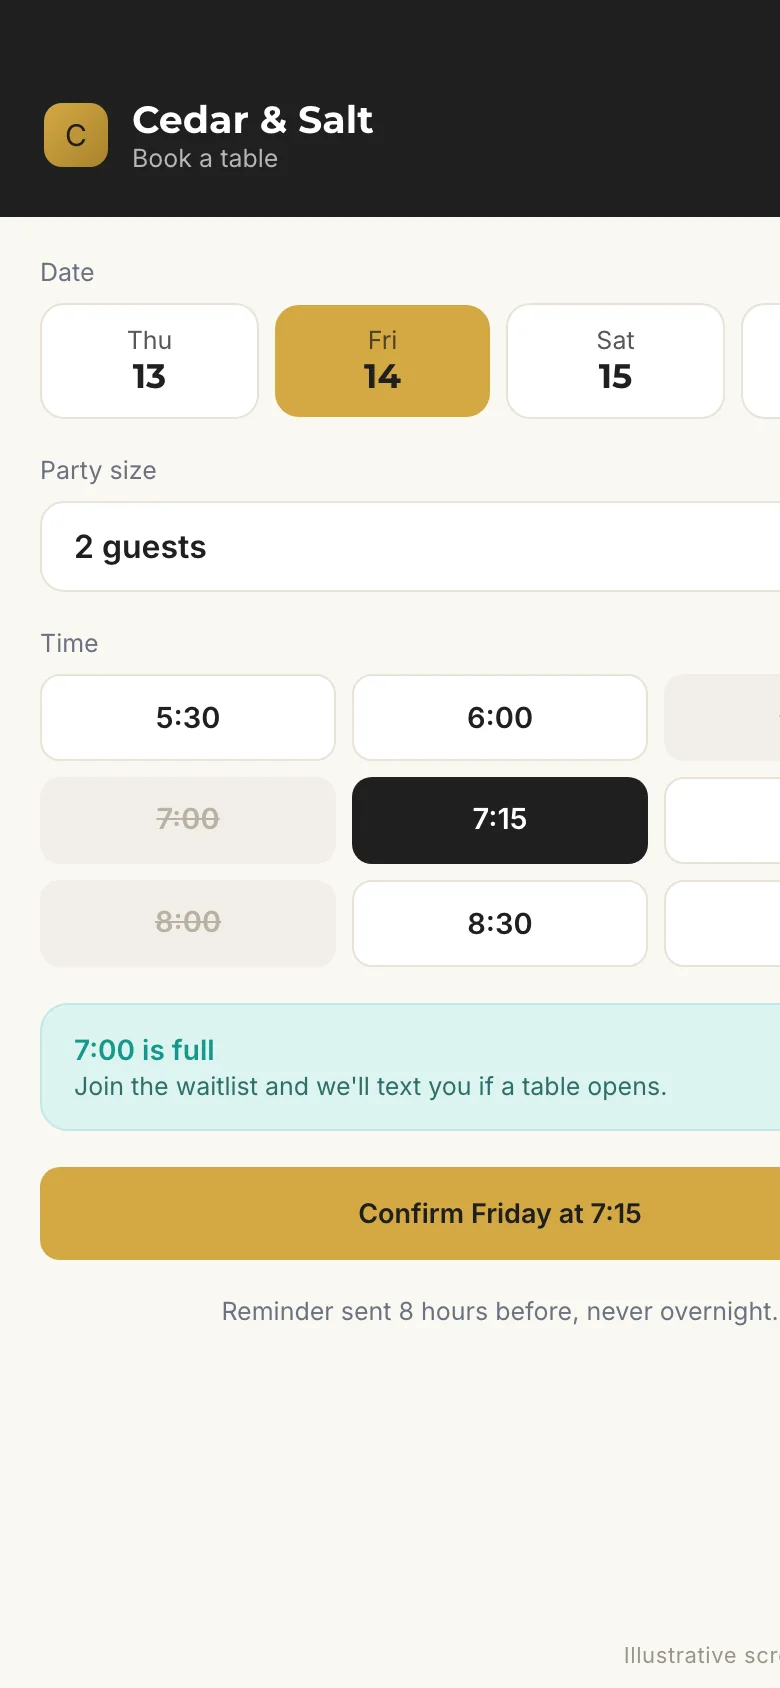
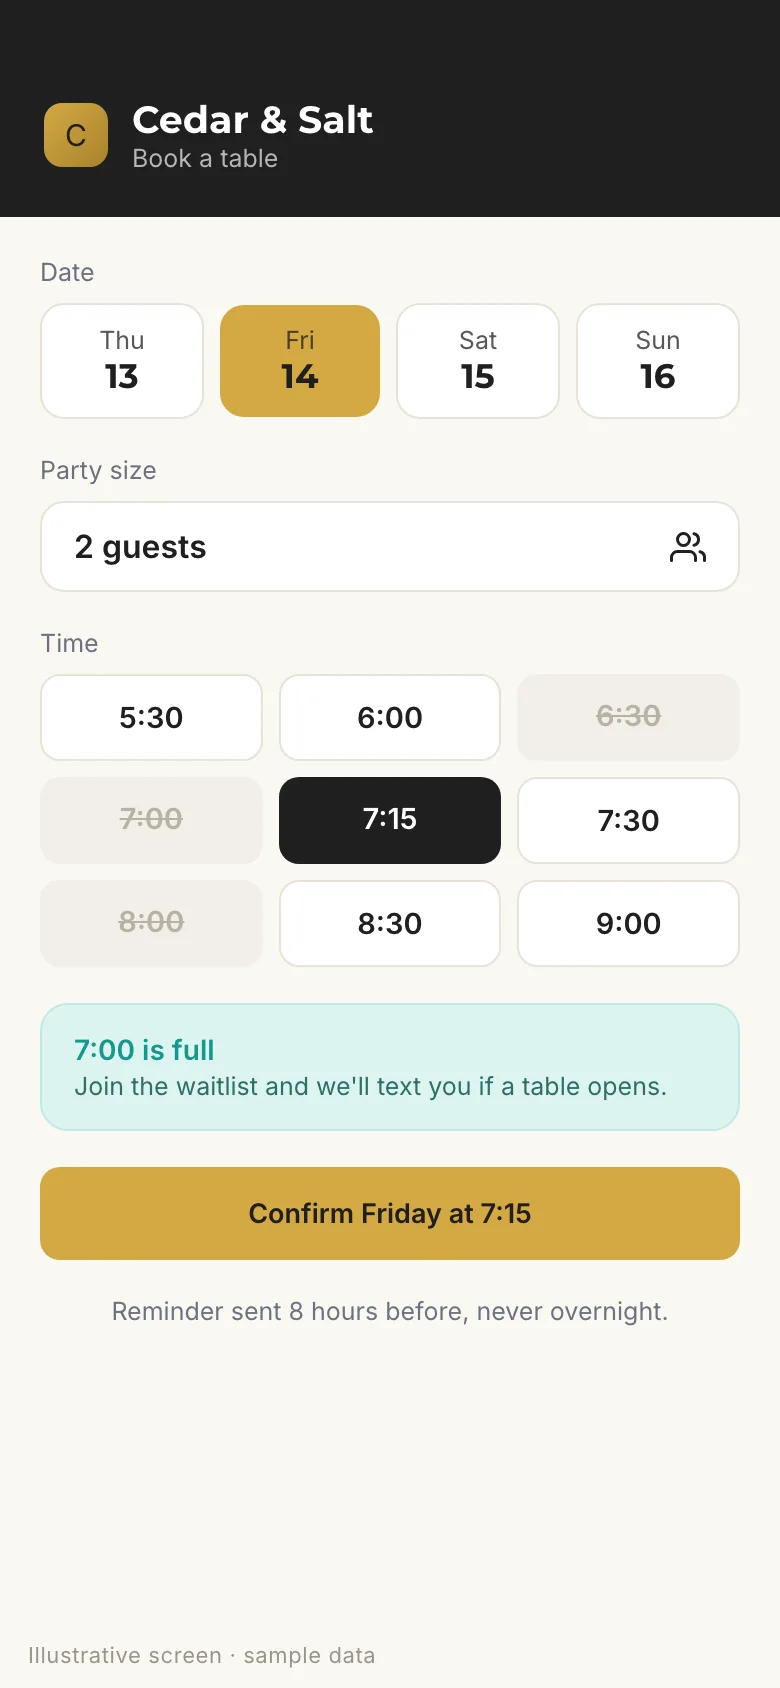
Keep backdated posts accurate, fix the phone screen crop [monarch-build]
- Five posts dated before the club's academy and scheduling went live now
  describe how we build those tools instead of claiming finished club work
- Phone booking screen renders at its real width with no cropped columns

diff --git a/blog/how-to-open-a-restaurant-checklist/index.html b/blog/how-to-open-a-restaurant-checklist/index.html
@@ -87,7 +87,7 @@
 <p>Figuring out how to open a restaurant is mostly figuring out what has to happen in what order. Miss one early step, like the liquor license application or the health department's plan review, and your opening date slides by weeks while rent keeps running. This checklist walks through each phase from concept to opening week and flags the items with long lead times, so you can start those first.</p>
 <p>Requirements vary by state, county, and city. Use this as a framework, and confirm the details with your local offices, your attorney, and your accountant.</p>
 <h2>Get the long lead items moving first</h2>
-<p>Some items take months in many markets, and none of them can be rushed at the end. Start these as soon as your concept and location are firm:</p>
+<p>Some items take months in many markets, and none of them can be rushed at the end. Put these on the calendar as soon as your concept and location are firm:</p>
 <table>
 <thead>
 <tr>
@@ -255,16 +255,16 @@
 <ul>
 <li>Signing a lease before a contractor confirms the hood, gas, grease trap, and electrical can support your menu.</li>
 <li>Spending the contingency during build-out and opening with no working capital left.</li>
-<li>Ordering custom furniture after the floor plan changes for the third time.</li>
+<li>Finalizing the floor plan so late that custom furniture can't arrive in time.</li>
 <li>Hiring so late that the crew meets the menu during soft opening.</li>
 <li>Opening with a menu bigger than a new kitchen can execute.</li>
-<li>Saving marketing for the week before the doors open, when the profile, website, and email list needed months to build.</li>
+<li>Saving marketing for the week before the doors open, when the profile, website, and email list all take time to build.</li>
 <li>Skipping mock services because the schedule is tight.</li>
 </ul>
 <h2>Keep one owner and one calendar</h2>
-<p>Openings slip when tasks live in five different inboxes. Put every item above on one shared calendar with an owner and a due date, and review it weekly with your contractor, chef, and GM. When a date moves, move everything that depends on it the same day. Keeping that calendar current, and chasing the vendors behind it, is a big part of what our <a href="/restaurant-operations-consulting/">restaurant operations consulting</a> covers for owners who are opening.</p>
+<p>Openings slip when tasks live in five different inboxes. Put every item above on one shared calendar with an owner and a due date, and review it weekly with your contractor, chef, and GM. When a date moves, move everything that depends on it the same day. Keeping that calendar current, and chasing the vendors behind it, is a big part of what our <a href="/restaurant-operations-consulting/">restaurant operations consulting</a> covers for owners who are opening. If you already run a restaurant and you're opening another, our <a href="/ai-assessment/">free AI assessment</a> gives you a quick read on your current operation first, and Christy follows up personally.</p>
 <h2>How Monarch helps</h2>
-<p>Our <a href="/restaurant-operations-consulting/">operations team</a> can run this checklist with you from the written plan to opening week, coordinating vendors, software, training, and marketing along the way. If you already run a restaurant and you're opening another, our <a href="/ai-assessment/">free AI assessment</a> gives you a quick read on your current operation first, and Christy follows up personally.</p>
+<p>Our <a href="/restaurant-operations-consulting/">operations team</a> can run this checklist with you from the written plan to opening week, coordinating vendors, software, training, and marketing along the way. We do the work. You guide the process.</p>
 <div class="article-cta"><h3>Want help with this?</h3><p>Monarch handles operations consulting for restaurants as part of one white-glove team. We do the work. You guide the process. <a href="/restaurant-operations-consulting/" style="color:var(--gold-light)">See how operations consulting works with us</a>.</p><a class="btn btn-gold" href="/ai-assessment/">Get Your Free AI Assessment</a></div>
     </article>
     <aside class="blog-sidebar">

diff --git a/blog/restaurant-booth-dimensions/index.html b/blog/restaurant-booth-dimensions/index.html
@@ -143,7 +143,7 @@
 <ul>
 <li><strong>Single booths</strong> back up to a wall or a window line.</li>
 <li><strong>Double booths</strong> sit back to back and work in the middle of a room or as a divider. The common footprint is about 46 inches long by 44 inches deep.</li>
-<li><strong>Half-circle and three-quarter-circle booths</strong> suit corners and larger parties. Published sizes run about 46 by 88 inches for a half circle and about 88 by 88 inches for a three-quarter circle, with a corner-cut table.</li>
+<li><strong>Half-circle and three-quarter-circle booths</strong> suit corners and larger parties. Published sizes vary, and one common listing puts a half circle at about 46 by 88 inches and a three-quarter circle at about 88 by 88 inches, each with a corner-cut table.</li>
 <li><strong>Wall benches, or banquettes,</strong> run any length with loose chairs on the open side, so you can split a long bench into two-tops or four-tops as the night needs.</li>
 <li><strong>High-back booths</strong> add privacy and quiet, and they block sight lines, so check what a server can see from the station.</li>
 </ul>
@@ -220,7 +220,7 @@
 <p>That keeps roughly 10 to 12 inches between the seat and the tabletop at every height. Mixing heights in one room works, as long as each seat matches its table.</p>
 <h2>Aisles and spacing</h2>
 <ul>
-<li>Allow about 18 inches from the table edge to the back of a pulled-in chair.</li>
+<li>Allow about 18 inches from the table edge to the back of the chair for a seated guest.</li>
 <li>Main traffic aisles are commonly planned at 48 to 60 inches, and secondary aisles at 36 to 44 inches.</li>
 <li>Keep accessible routes at least 36 inches wide.</li>
 <li>Give extra room at the kitchen door, server stations, host stand, and restrooms, where trays and guests cross paths.</li>
@@ -262,7 +262,7 @@
 </tr>
 <tr>
 <td>Cleaning</td>
-<td>Needs a cleanable, commercial-grade upholstery</td>
+<td>Needs cleanable, commercial-grade upholstery</td>
 <td>Quick to wipe down</td>
 </tr>
 <tr>
@@ -283,9 +283,9 @@
 <li>Set delivery and install dates with your contractor so booths arrive after flooring and paint.</li>
 <li>Budget furniture as part of your full FF&amp;E plan. Our explainer on <a href="/blog/what-is-ffe-restaurant/">what FF&amp;E means</a> covers the categories and how to budget them.</li>
 </ul>
-<p>Keeping the designer, the builder, the manufacturer, and the installer working from the same measurements is the core of our <a href="/restaurant-furniture/">restaurant furniture</a> work.</p>
+<p>Keeping the designer, the builder, the manufacturer, and the installer working from the same measurements is the core of our <a href="/restaurant-furniture/">restaurant furniture</a> work. If you'd like a broader read on your operation first, our <a href="/ai-assessment/">free AI assessment</a> is a quick place to begin, and Christy follows up personally.</p>
 <h2>How Monarch helps</h2>
-<p>We coordinate <a href="/restaurant-furniture/">restaurant furniture and FF&amp;E</a> from the floor plan and table configuration through samples, ordering, freight, and install timing, working alongside your designer and builders. Our <a href="/ai-assessment/">free AI assessment</a> is a quick way to see where the rest of your operation stands, and Christy follows up personally.</p>
+<p>We coordinate <a href="/restaurant-furniture/">restaurant furniture and FF&amp;E</a> from the floor plan and table configuration through samples, ordering, freight, and install timing, working alongside your designer and builders. We do the work. You guide the process.</p>
 <div class="article-cta"><h3>Want help with this?</h3><p>Monarch handles furniture and ff&amp;e for restaurants as part of one white-glove team. We do the work. You guide the process. <a href="/restaurant-furniture/" style="color:var(--gold-light)">See how furniture and ff&amp;e works with us</a>.</p><a class="btn btn-gold" href="/ai-assessment/">Get Your Free AI Assessment</a></div>
     </article>
     <aside class="blog-sidebar">

diff --git a/blog/restaurant-sops/index.html b/blog/restaurant-sops/index.html
@@ -230,7 +230,7 @@
 <p>Line cooks and servers spot broken steps first. Give them a simple way to flag one, and have the SOP owner answer within a week. When a cook at your second location finds a faster, safer way to break down the fryer, make it the standard for everyone.</p>
 <h2>Where Software Helps</h2>
 <p>A binder works for one kitchen. Across several, a digital SOP library means one update reaches every location at once, every hire sees the current version on a phone or tablet, and you can see who's been trained on what.</p>
-<p>Some standards work best built into the tools your team already uses every shift. For a private dining club in Vail, Colorado, we built house rules for turn times by season and party size into the club's admin tools, and its training academy records which version of the handbook each person signed. That's the heart of good <a href="/multi-location-restaurants/">multi-unit restaurant management</a>: the standard lives in one place, and every location works from it.</p>
+<p>Some standards work best built into the tools your team already uses every shift. When we build software for a restaurant, house rules like turn times by season and party size live in the admin tools, and the training academy records which version of the handbook each person signed. That's the heart of good <a href="/multi-location-restaurants/">multi-unit restaurant management</a>: the standard lives in one place, and every location works from it.</p>
 <h2>How Monarch Helps</h2>
 <p>We write SOPs from the way your best location already runs, build them into training your team can open on any phone, and roll one standard out to every address as part of a <a href="/multi-location-restaurants/">multi-location rollout</a>. You review and approve every page before your team sees it. For a quick read on where your operation stands today, take our <a href="/ai-assessment/">free AI assessment</a>.</p>
 <div class="article-cta"><h3>Want help with this?</h3><p>Monarch handles multi-location for restaurants as part of one white-glove team. We do the work. You guide the process. <a href="/multi-location-restaurants/" style="color:var(--gold-light)">See how multi-location works with us</a>.</p><a class="btn btn-gold" href="/ai-assessment/">Get Your Free AI Assessment</a></div>

diff --git a/blog/restaurant-schedule-template/index.html b/blog/restaurant-schedule-template/index.html
@@ -227,7 +227,7 @@
 <li><strong>Skipping the weekly review.</strong> Without a look at scheduled hours next to actual hours, next week's template is a guess.</li>
 </ul>
 <h2>Where Software Saves the Hours</h2>
-<p>A spreadsheet works, and it eats a manager's afternoon every week. <a href="/restaurant-scheduling/">Restaurant scheduling software</a> can draft the week for you. For a private dining club in Vail, Colorado, we built scheduling that drafts each week from the book, staffing minimums, and history. Drafts respect availability, time off, and 40-hour caps, flag part-timers over 29 hours, and never split a shift. Publishing texts each person their week, and later changes text only the people affected. Managers approve swap and time-off requests, and a weekly hours report shows where the time went.</p>
+<p>A spreadsheet works, and it eats a manager's afternoon every week. <a href="/restaurant-scheduling/">Restaurant scheduling software</a> can draft the week for you. The scheduling we build drafts each week from the book, staffing minimums, and history. Drafts respect availability, time off, and 40-hour caps, flag part-timers over 29 hours, and never split a shift. Publishing texts each person their week, and later changes text only the people affected. Managers approve swap and time-off requests, and a weekly hours report shows where the time went.</p>
 <h2>How Monarch Helps</h2>
 <p>We set up <a href="/restaurant-scheduling/">restaurant scheduling and labor planning</a> around your forecast, your staffing minimums, and your labor targets, and a manager reviews every draft before it publishes. If you'd like a read on where your labor stands first, take our <a href="/ai-assessment/">free AI assessment</a>.</p>
 <div class="article-cta"><h3>Want help with this?</h3><p>Monarch handles scheduling and labor for restaurants as part of one white-glove team. We do the work. You guide the process. <a href="/restaurant-scheduling/" style="color:var(--gold-light)">See how scheduling and labor works with us</a>.</p><a class="btn btn-gold" href="/ai-assessment/">Get Your Free AI Assessment</a></div>

diff --git a/blog/menu-engineering/index.html b/blog/menu-engineering/index.html
@@ -256,7 +256,7 @@
 <li>Running the analysis once and never again.</li>
 </ul>
 <h2>How often to re-run it</h2>
-<p>Run it quarterly, and again after any menu change, price change, or big supplier increase. Seasonal menus get a fresh run at every change. Keep each version, because the trend over a year tells you more than any single month. Menu engineering is one of the most direct levers on <a href="/blog/restaurant-profit-margins/">restaurant profit margins</a>, since it changes what every cover earns. It's also one of the first things our <a href="/restaurant-operations-consulting/">restaurant operations consulting</a> team looks at, right alongside prime cost and labor.</p>
+<p>Run it quarterly, and again after any menu change, price change, or big supplier increase. Seasonal menus get a fresh run at every change. Keep each version, because the trend over a year tells you more than any single month. Menu engineering moves your <a href="/blog/restaurant-profit-margins/">restaurant profit margins</a> directly, since it changes what every cover earns. It's also one of the first things our <a href="/restaurant-operations-consulting/">restaurant operations consulting</a> team looks at, right alongside prime cost and labor.</p>
 <h2>How Monarch helps</h2>
 <p>We run menu engineering as part of our <a href="/restaurant-operations-consulting/">operations consulting</a>, from recipe costing through pricing and placement, built on your own POS sales and your kitchen's recipes. Our <a href="/ai-assessment/">free AI assessment</a> is a fast way to spot gaps in your operations and marketing, and Christy follows up personally.</p>
 <div class="article-cta"><h3>Want help with this?</h3><p>Monarch handles operations consulting for restaurants as part of one white-glove team. We do the work. You guide the process. <a href="/restaurant-operations-consulting/" style="color:var(--gold-light)">See how operations consulting works with us</a>.</p><a class="btn btn-gold" href="/ai-assessment/">Get Your Free AI Assessment</a></div>

diff --git a/blog/server-training-checklist/index.html b/blog/server-training-checklist/index.html
@@ -87,7 +87,7 @@
 <p>Most server training comes down to a couple of shadow shifts, a menu to study at home, and a busy Saturday where the new hire figures out the rest. Some people make it through that. Others quit before the month is out, and the ones who stay pick up whatever habits their trainer happened to have. A structured first ten days gives every new server the same foundation and gives you a clear way to know who can take a section alone. What follows is the checklist we'd use, day by day, plus what to test along the way.</p>
 <h2>How the 10 Days Work</h2>
 <p>Each day has one focus, a short lesson, time on the floor with a trainer, and a quiz at the end. The trainee moves on to the next day only after passing that quiz and getting the trainer's sign-off. Trainers work from the same checklist for every hire, so a server trained in March learns exactly what a server trained in September learns.</p>
-<p>We built this structure for a private dining club in Vail, Colorado: 13 role-based academies, 10 days each, where a daily quiz and the trainer's sign-off open up the next day. Servers, hosts, back waiters, bartenders, and captains each have their own track. The checklist below follows the same general shape, adapted for a typical full-service restaurant.</p>
+<p>This is the structure we use when we build a training academy: role-based tracks, 10 days each, where a daily quiz and the trainer's sign-off open up the next day. Servers, hosts, back waiters, bartenders, and captains each get their own track. The checklist below follows the same general shape, adapted for a typical full-service restaurant.</p>
 <h2>Server Training, Day by Day</h2>
 <table>
 <thead>

diff --git a/blog/restaurant-employee-turnover/index.html b/blog/restaurant-employee-turnover/index.html
@@ -195,7 +195,7 @@
 </table>
 <p>Write down what you hear and follow up on it before the next check-in.</p>
 <h3>Post schedules early and keep them steady</h3>
-<p>Publish the schedule at least a week ahead, and two weeks if you can. Honor availability, rotate the good sections fairly, and keep changes to a minimum. When something does change, tell only the people it affects. For a private dining club in Vail, Colorado, we built scheduling that texts each person their week when it's published and texts only the affected people when something changes later. Our <a href="/blog/restaurant-schedule-template/">restaurant schedule template</a> walks through building a week from your sales forecast.</p>
+<p>Publish the schedule at least a week ahead, and two weeks if you can. Honor availability, rotate the good sections fairly, and keep changes to a minimum. When something does change, tell only the people it affects. The scheduling software we build texts each person their week when it's published and texts only the affected people when something changes later. Our <a href="/blog/restaurant-schedule-template/">restaurant schedule template</a> walks through building a week from your sales forecast.</p>
 <h3>Make pay and tip rules plain</h3>
 <p>Write down exactly how tips are pooled or shared, when they're paid, and how credit card tips are handled, then walk every new hire through it. Know what restaurants near you pay for each role. If you can't match it, be clear about what else you offer, like steady hours, staff meals, or a path to a better role.</p>
 <h3>Build a ladder people can see</h3>

diff --git a/blog/google-business-profile-for-restaurants/index.html b/blog/google-business-profile-for-restaurants/index.html
@@ -177,7 +177,7 @@
 </ul>
 <p>AI can draft replies in your voice so none sit unanswered, as long as a manager reads and approves each one before it posts.</p>
 <h2>Posts and updates</h2>
-<p>Google posts are a quick way to share events, specials, seasonal menus, and holiday hours. A weekly or every-other-week rhythm keeps the profile looking active. Lead with a strong photo and use one clear button, like Book or Order online. For calls, attach the post's Call button, which uses the number already on your profile.</p>
+<p>Google posts are a quick way to share events, specials, seasonal menus, and holiday hours. A weekly or every-other-week rhythm keeps the profile looking active. Lead with a strong photo and use one clear button, like Book or Order online. For calls, attach the post's Call now button, which uses the number already on your profile.</p>
 <h2>Questions now go to Google's AI</h2>
 <p>Google has retired the public questions and answers section on Maps. Guests can now ask a question on your profile and get an AI answer drawn from your business details and reviews. That raises the stakes on complete information. If your attributes, hours, menu, and description are thin, the answer a guest gets will be thin too. Fill in every attribute that's true, from parking and outdoor seating to vegetarian options and private dining.</p>
 <h2>Track what the profile does</h2>

diff --git a/blog/restaurant-employee-handbook/index.html b/blog/restaurant-employee-handbook/index.html
@@ -197,7 +197,7 @@
 <ul>
 <li><strong>Keep it readable.</strong> Plain words, short sections, a table of contents, and a Spanish version if part of your team reads Spanish first.</li>
 <li><strong>Walk through it on day one.</strong> Spend 20 minutes on the sections that come up most on a shift: tips, call-outs, allergens, and phones.</li>
-<li><strong>Collect e-signatures that record the version.</strong> When the handbook changes, you need to know who signed which version. At a private dining club in Vail, Colorado, the training academy we built records which version of the handbook each person signed.</li>
+<li><strong>Collect e-signatures that record the version.</strong> When the handbook changes, you need to know who signed which version. The training academies we build record which version of the handbook each person signed.</li>
 <li><strong>Quiz the key policies.</strong> A few questions on tips, call-outs, and allergens show you who read it.</li>
 <li><strong>Date every version.</strong> When something changes, publish the new version, note what changed, and collect new signatures.</li>
 <li><strong>Review it every year.</strong> Laws change, and so does your restaurant. Put a yearly review with your attorney on the calendar.</li>

diff --git a/blog/prime-cost-labor-cost/index.html b/blog/prime-cost-labor-cost/index.html
@@ -217,11 +217,11 @@
 <li><strong>If labor moved,</strong> compare scheduled hours to actual hours, look for overtime, and check whether sales came in under forecast.</li>
 <li><strong>If sales dropped,</strong> expect most of the damage in labor percentage. COGS falls along with sales, and a fixed schedule doesn't.</li>
 </ul>
-<h2>A Monday routine that takes 30 minutes</h2>
+<h2>A short Monday routine</h2>
 <ol>
 <li>Pull last week's sales from the POS.</li>
 <li>Add up purchases from that week's invoices.</li>
-<li>Use Sunday night's inventory count as ending inventory.</li>
+<li>Count inventory at the close of the week, Sunday night if your week ends Sunday, and use it as ending inventory.</li>
 <li>Pull total labor from payroll, or estimate it from the time clock plus a payroll tax percentage your accountant gives you.</li>
 <li>Calculate prime cost, labor cost, and SPLH, and write them next to the targets.</li>
 </ol>

diff --git a/blog/ai-in-hospitality/index.html b/blog/ai-in-hospitality/index.html
@@ -183,7 +183,7 @@
 <li><strong>Guest complaints.</strong> AI can draft a response, and a manager owns the follow-up.</li>
 <li><strong>Policy.</strong> House rules, cancellation fees, and exceptions stay with managers.</li>
 </ul>
-<h2>Run a 30-day pilot before you commit</h2>
+<h2>Run a four-week pilot before you commit</h2>
 <table>
 <thead>
 <tr>

diff --git a/_build/mockups.py b/_build/mockups.py
@@ -404,15 +404,23 @@ SCREENS = {"host": host, "schedule": schedule, "kitchen": kitchen, "lms": lms, "
 
 def render(name):
     html, (w, h) = SCREENS[name]()
+    # Headless Chrome will not lay out narrower than about 500px, so phone screens are pinned
+    # to their real width inside a wider window and cropped back afterwards.
+    win_w = w
+    if w < 500:
+        win_w = 520
+        html = html.replace("</head>", f"<style>html,body{{width:{w}px!important;min-width:{w}px}}.illus{{left:14px;right:auto}}</style></head>", 1)
     with tempfile.NamedTemporaryFile("w", suffix=".html", delete=False, encoding="utf-8") as fh:
         fh.write(html)
         src = fh.name
     png = os.path.join(tempfile.gettempdir(), f"mock-{name}.png")
     subprocess.run([CHROME, "--headless=new", "--disable-gpu", "--hide-scrollbars", "--allow-file-access-from-files",
-                    f"--force-device-scale-factor=2", f"--window-size={w},{h}", f"--screenshot={png}",
+                    f"--force-device-scale-factor=2", f"--window-size={win_w},{h}", f"--screenshot={png}",
                     "--virtual-time-budget=1500", f"file://{src}"],
                    check=True, capture_output=True)
     img = Image.open(png).convert("RGB")
+    if win_w != w:
+        img = img.crop((0, 0, w * 2, img.size[1]))
     target_w = 1800 if w > 1000 else 780
     if img.size[0] > target_w:
         img = img.resize((target_w, int(img.size[1] * target_w / img.size[0])), Image.LANCZOS)
